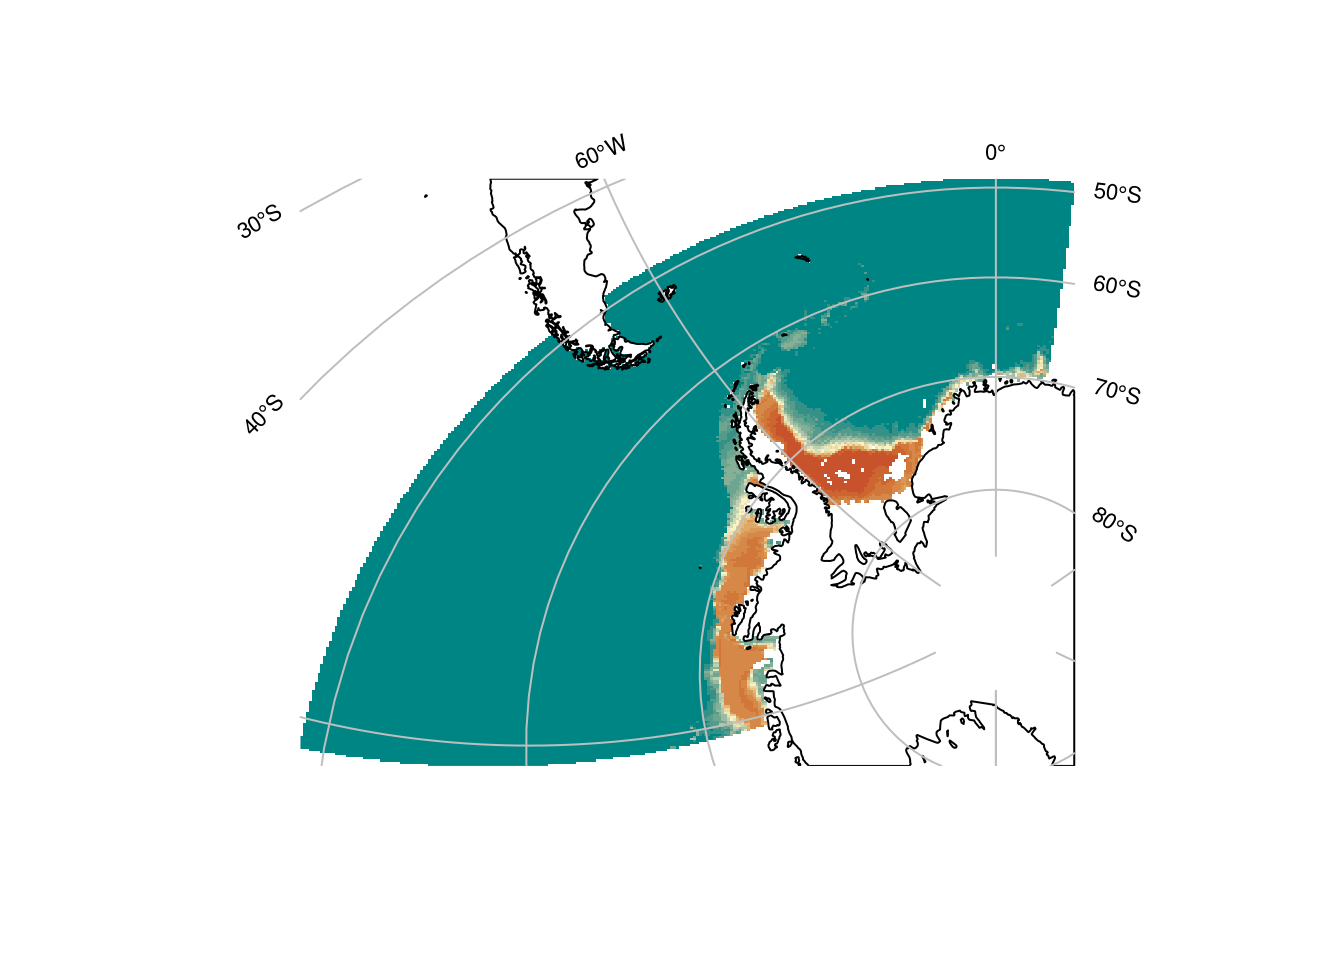
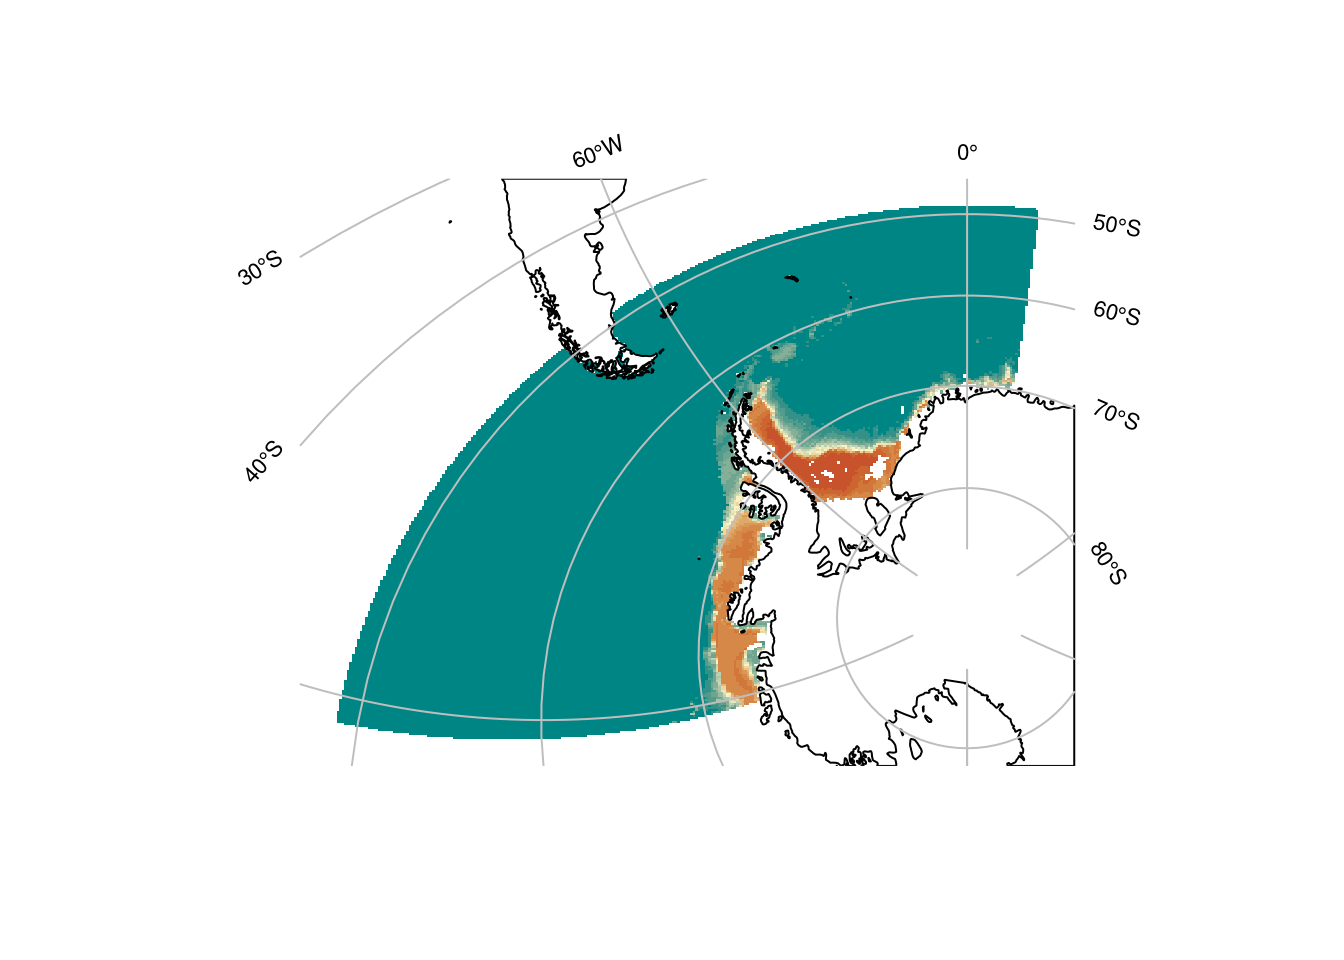
updated for SOmap 0.3.0

diff --git a/docs/overview.html b/docs/overview.html
@@ -178,11 +178,15 @@ pkgs &lt;-<span class="st"> </span><span class="kw">setdiff</span>(pkgs, <span c
 
 <span class="kw">library</span>(dplyr)</code></pre>
 <p>And from GitHub:</p>
-<pre class="sourceCode r"><code class="sourceCode r"><span class="kw">library</span>(remotes)
-pkgs &lt;-<span class="st"> </span><span class="kw">c</span>(<span class="st">&quot;SCAR/antanym&quot;</span>, <span class="st">&quot;AustralianAntarcticDivision/blueant&quot;</span>,
-          <span class="st">&quot;AustralianAntarcticDivision/SOmap&quot;</span>)
-pkgs &lt;-<span class="st"> </span>pkgs[<span class="op">!</span><span class="kw">basename</span>(pkgs) <span class="op">%in%</span><span class="st"> </span><span class="kw">installed.packages</span>()[, <span class="dv">1</span>]]
-<span class="cf">for</span> (pkg <span class="cf">in</span> pkgs) remotes<span class="op">::</span><span class="kw">install_github</span>(pkg)</code></pre>
+<pre class="sourceCode r"><code class="sourceCode r"><span class="co">## packages with required minimum version</span>
+pkgs &lt;-<span class="st"> </span><span class="kw">c</span>(<span class="st">&quot;SCAR/antanym&quot;</span> =<span class="st"> </span><span class="ot">NA</span>, <span class="st">&quot;AustralianAntarcticDivision/blueant&quot;</span> =<span class="st"> </span><span class="ot">NA</span>,
+          <span class="st">&quot;AustralianAntarcticDivision/SOmap&quot;</span> =<span class="st">  &quot;0.3.0&quot;</span>)
+<span class="cf">for</span> (pkg <span class="cf">in</span> <span class="kw">names</span>(pkgs)) {
+    <span class="cf">if</span> (<span class="op">!</span><span class="kw">basename</span>(pkg) <span class="op">%in%</span><span class="st"> </span><span class="kw">installed.packages</span>()[, <span class="dv">1</span>] <span class="op">||</span>
+<span class="st">        </span>(<span class="op">!</span><span class="kw">is.na</span>(pkgs[[pkg]]) <span class="op">&amp;&amp;</span><span class="st"> </span><span class="kw">packageVersion</span>(<span class="kw">basename</span>(pkg)) <span class="op">&lt;</span><span class="st"> </span>pkgs[[pkg]])) {
+        remotes<span class="op">::</span><span class="kw">install_github</span>(pkg)
+    }
+}</code></pre>
 </div>
 <div id="taxonomy" class="section level2">
 <h2><span class="header-section-number">2.2</span> Taxonomy</h2>
@@ -230,13 +234,12 @@ my_aphia_id &lt;-<span class="st"> </span>tax[[<span class="dv">1</span>]]<span 
 x &lt;-<span class="st"> </span><span class="kw">occurrence</span>(<span class="dt">datasetid =</span> <span class="st">&quot;cb16377b-56a8-4d95-802d-4eec02466773&quot;</span>)</code></pre>
 <p>Plot the complete distribution of samples in black, and <em>Euphausia crystallorophias</em> in green:</p>
 <pre class="sourceCode r"><code class="sourceCode r"><span class="kw">library</span>(SOmap)
-<span class="kw">SOauto_map</span>(x<span class="op">$</span>decimalLongitude, x<span class="op">$</span>decimalLatitude, <span class="dt">input_lines =</span> <span class="ot">FALSE</span>, <span class="dt">contours =</span> <span class="ot">FALSE</span>, 
-           <span class="dt">pcol =</span> <span class="st">&quot;black&quot;</span>, <span class="dt">pcex =</span> <span class="fl">0.2</span>)
+<span class="kw">SOmap_auto</span>(x<span class="op">$</span>decimalLongitude, x<span class="op">$</span>decimalLatitude, <span class="dt">input_lines =</span> <span class="ot">FALSE</span>, <span class="dt">pcol =</span> <span class="st">&quot;black&quot;</span>, <span class="dt">pcex =</span> <span class="fl">0.2</span>)
 <span class="kw">with</span>(x <span class="op">%&gt;%</span><span class="st"> </span>dplyr<span class="op">::</span><span class="kw">filter</span>(aphiaID <span class="op">==</span><span class="st"> </span>my_aphia_id), 
      <span class="kw">SOplot</span>(decimalLongitude, decimalLatitude, <span class="dt">pch =</span> <span class="dv">19</span>, <span class="dt">cex =</span> <span class="fl">0.2</span>, <span class="dt">col =</span> <span class="st">&quot;green&quot;</span>))</code></pre>
 <p><img src="_main_files/figure-html/map1-1.png" width="672" /></p>
 <p>Or as a polar stereo map:</p>
-<pre class="sourceCode r"><code class="sourceCode r">basemap &lt;-<span class="st"> </span><span class="kw">SOmap</span>(<span class="dt">Trim =</span> <span class="kw">ceiling</span>(<span class="kw">max</span>(x<span class="op">$</span>decimalLatitude))<span class="op">+</span><span class="dv">1</span>, <span class="dt">Bathleg =</span> <span class="ot">FALSE</span>)
+<pre class="sourceCode r"><code class="sourceCode r">basemap &lt;-<span class="st"> </span><span class="kw">SOmap</span>(<span class="dt">trim =</span> <span class="kw">ceiling</span>(<span class="kw">max</span>(x<span class="op">$</span>decimalLatitude))<span class="op">+</span><span class="dv">1</span>, <span class="dt">bathy_legend =</span> <span class="ot">FALSE</span>)
 <span class="kw">plot</span>(basemap)
 <span class="kw">SOplot</span>(x<span class="op">$</span>decimalLongitude, x<span class="op">$</span>decimalLatitude, <span class="dt">pch =</span> <span class="dv">19</span>, <span class="dt">cex =</span> <span class="fl">0.2</span>, <span class="dt">col =</span> <span class="st">&quot;black&quot;</span>)
 <span class="kw">with</span>(x <span class="op">%&gt;%</span><span class="st"> </span>dplyr<span class="op">::</span><span class="kw">filter</span>(aphiaID <span class="op">==</span><span class="st"> </span>my_aphia_id), 
@@ -347,7 +350,7 @@ pr &lt;-<span class="st"> </span><span class="kw">rasterFromXYZ</span>(xpred[, <
 
 my_cmap &lt;-<span class="st"> </span><span class="cf">if</span> (<span class="kw">getRversion</span>() <span class="op">&gt;=</span><span class="st"> &quot;3.6&quot;</span>) <span class="kw">hcl.colors</span>(<span class="dv">21</span>, <span class="st">&quot;Geyser&quot;</span>) <span class="cf">else</span> <span class="kw">topo.colors</span>(<span class="dv">21</span>)</code></pre>
 <p>Plot it:</p>
-<pre class="sourceCode r"><code class="sourceCode r">p &lt;-<span class="st"> </span><span class="kw">SOauto_map</span>(<span class="dt">x =</span> pr, <span class="dt">contours =</span> <span class="ot">FALSE</span>, <span class="dt">bathy =</span> pr)
+<pre class="sourceCode r"><code class="sourceCode r">p &lt;-<span class="st"> </span><span class="kw">SOmap_auto</span>(<span class="dt">x =</span> pr, <span class="dt">bathy =</span> pr)
 p<span class="op">$</span>bathy_palette &lt;-<span class="st"> </span>my_cmap
 p</code></pre>
 <p><img src="_main_files/figure-html/predmap2-1.png" width="672" /></p>
